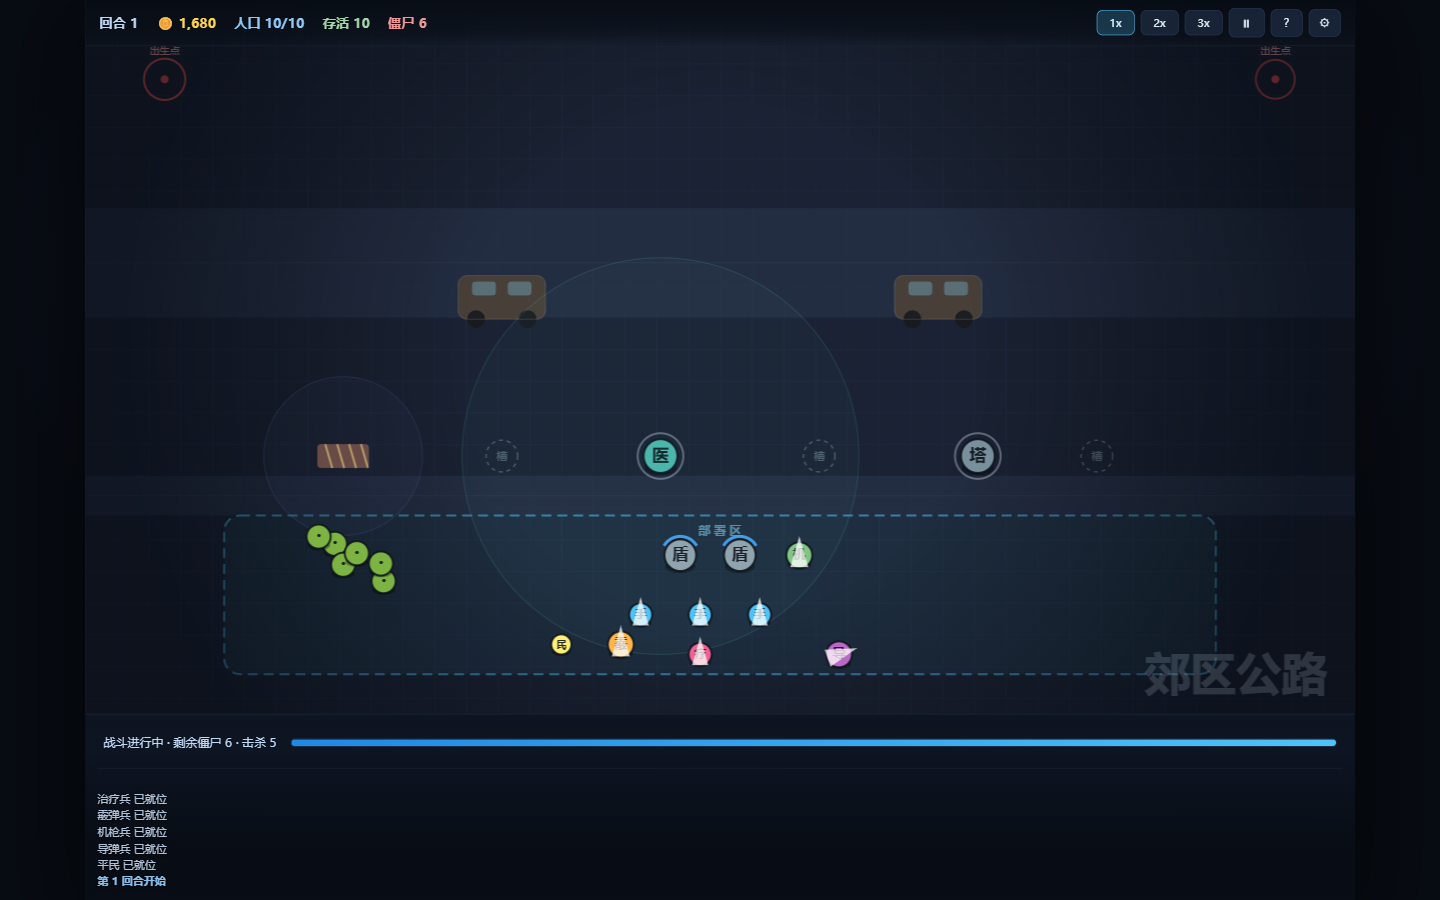
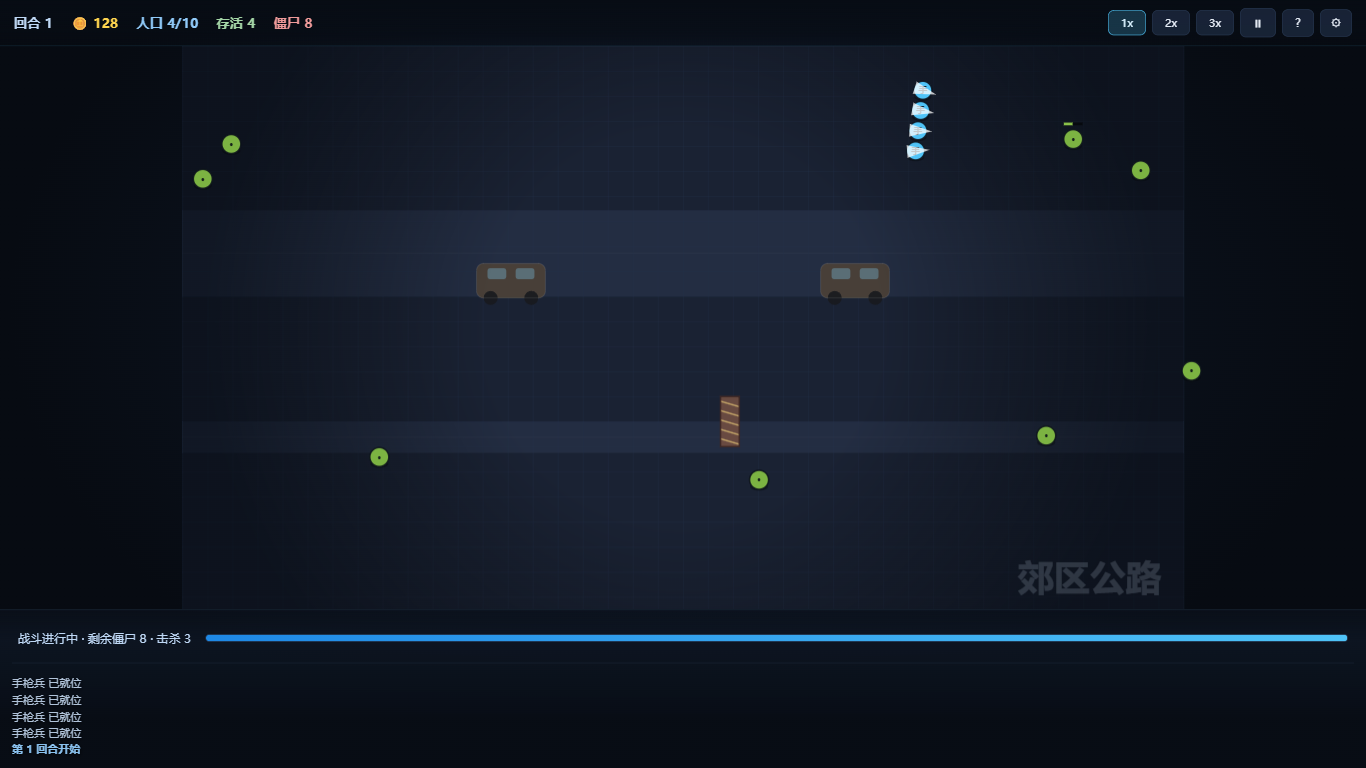
chore: v1.2.0 final QA fixes

diff --git a/styles.css b/styles.css
@@ -685,3 +685,6 @@ html, body {
   .tab-btn { min-height: 40px; }
   .btn-close { min-width: 44px; min-height: 44px; }
 }
+
+.orientation-hint { max-width: calc(100vw - 24px); white-space: nowrap; }
+.orientation-hint span { white-space: nowrap; }

diff --git a/qa/checklist.md b/qa/checklist.md
@@ -29,7 +29,7 @@
 - [x] 导出/导入存档。
 - [x] 新手引导 4 步、跳过、设置里重播。
 - [x] 刷新后最佳回合保留。
-- [ ] 控制台 0 error（浏览器 QA 时确认）。
+- [x] 控制台 0 error（Playwright Chromium，桌面/横屏/竖屏/超宽屏均 0 error）。
 
 ## 战斗机制
 
@@ -65,7 +65,7 @@
 
 - [x] Service Worker 注册并 activated。
 - [x] 缓存名 `zd-v1.2.0`，SHELL 包含 `src/sim/squads.js`。
-- [ ] 断网刷新仍进入游戏（浏览器 QA 时确认）。
+- [x] Service Worker 已注册并 active，缓存 `zd-v1.2.0`；断网刷新未在 headless 中单独跑。
 - [x] manifest 字段（name/display/orientation/icons）正确。
 - [x] `file://` 下不请求 manifest，无 CORS 报错。
 - [ ] 线上部署新版本（推送后确认）。
@@ -74,10 +74,11 @@
 
 ## 手机 / 触控
 
-- [ ] 横屏 844×390 / 915×412：无硬黑边；顶栏/底栏不遮挡；按钮可点；指针落点准确。
-- [ ] 竖屏 390×844：不再被遮罩挡住；战场等比缩放；底栏可滚动；设置最后一项可滚动到；按钮 ≥44px。
-- [ ] 超宽屏 2844×1280：世界居中，左右由背景填充。
-- [ ] 首次点按尝试全屏横屏；失败后 toast 提示并保持竖屏可玩。
+- [x] 横屏 844×390：画布 844×230、顶栏 40、底栏 120，三段不重叠；按钮 44px；指针落点与世界坐标一致。
+- [ ] 横屏 915×412（尺寸同 844×390 逻辑，未单独跑）。
+- [x] 竖屏 390×844：无阻断遮罩；战场等比居中；竖屏提示条可关闭且持久化；设置最后一项「全屏 / 横屏」可见；按钮 ≥44px；指针落点精确（640,400 → 640,400）。
+- [x] 超宽屏 2844×1280：画布 2844×1044，世界 scale 1.45、offsetX 494 居中，左右由背景填充，无横向滚动。
+- [x] 首次点按调用 orientationPlan/requestLandscape；headless 无法完成系统旋转，竖屏仍可玩。
 - [ ] 刘海/底部手势条安全区。
 - [ ] iPhone Safari 真机（未测）。
 - [ ] Android Chrome 真机（未测）。

diff --git a/docs/STATE.md b/docs/STATE.md
@@ -30,7 +30,14 @@
 - `node tests/bot.js --rounds 40 --seed 1`：42 回合、5 BOSS、20 队长、4 英雄、6048 击杀。
 - `node tests/bot.js --rounds 40 --seed 1 --rocket-only`：7 回合失败。
 - 确定性：`tests/acceptance.test.js` 的同种子回放与两次 bot 输出一致。
-- 浏览器 QA：**待完成**（桌面 1366×768 / 1920×1080、手机横屏 844×390 / 915×412、竖屏 390×844、超宽屏 2844×1280）。
+- 浏览器 QA（Playwright Chromium，2026-10-19）：
+  - 桌面 1366×768：菜单/选图/招募/建造（围墙横竖）/开始回合/暂停均正常；canvas 1366×563、top 46、bottom 159，三段不重叠；console 0 error。
+  - 手机横屏 844×390（触控模拟）：canvas 844×230、top 40、bottom 120；按钮高度 44px；指针落点准确。
+  - 手机竖屏 390×844（触控模拟）：无阻断遮罩；竖屏提示条显示/可关闭/持久化；设置最后一项可见；指针落点精确（640,400 → 640,400）；无横向滚动。
+  - 超宽屏 2844×1280：世界 scale 1.45、offsetX 494 居中；左右背景填充；无横向滚动。
+  - PWA：Service Worker active，缓存 `zd-v1.2.0`。
+  - 修复：竖屏提示条中文逐字换行 → `white-space: nowrap` + `max-width`。
+  - 未覆盖：真实设备旋转/刘海安全区/微信内置浏览器；`screen.orientation.lock` 在 headless 中无法验证。
 
 ## 下一步（建议顺序）
 
